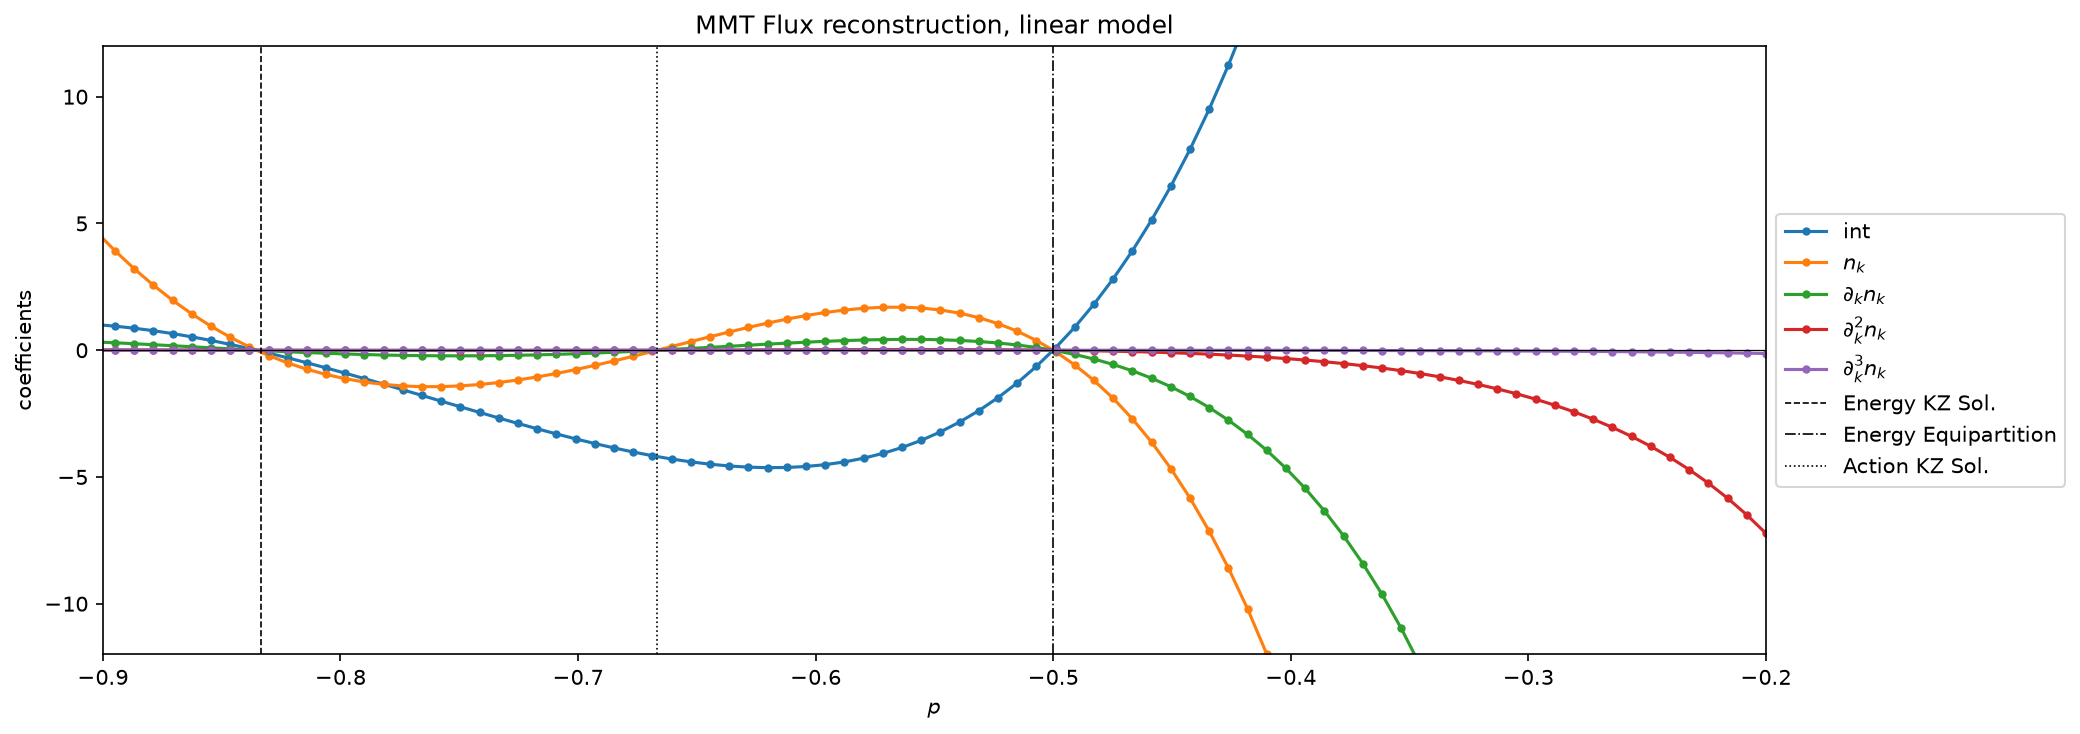
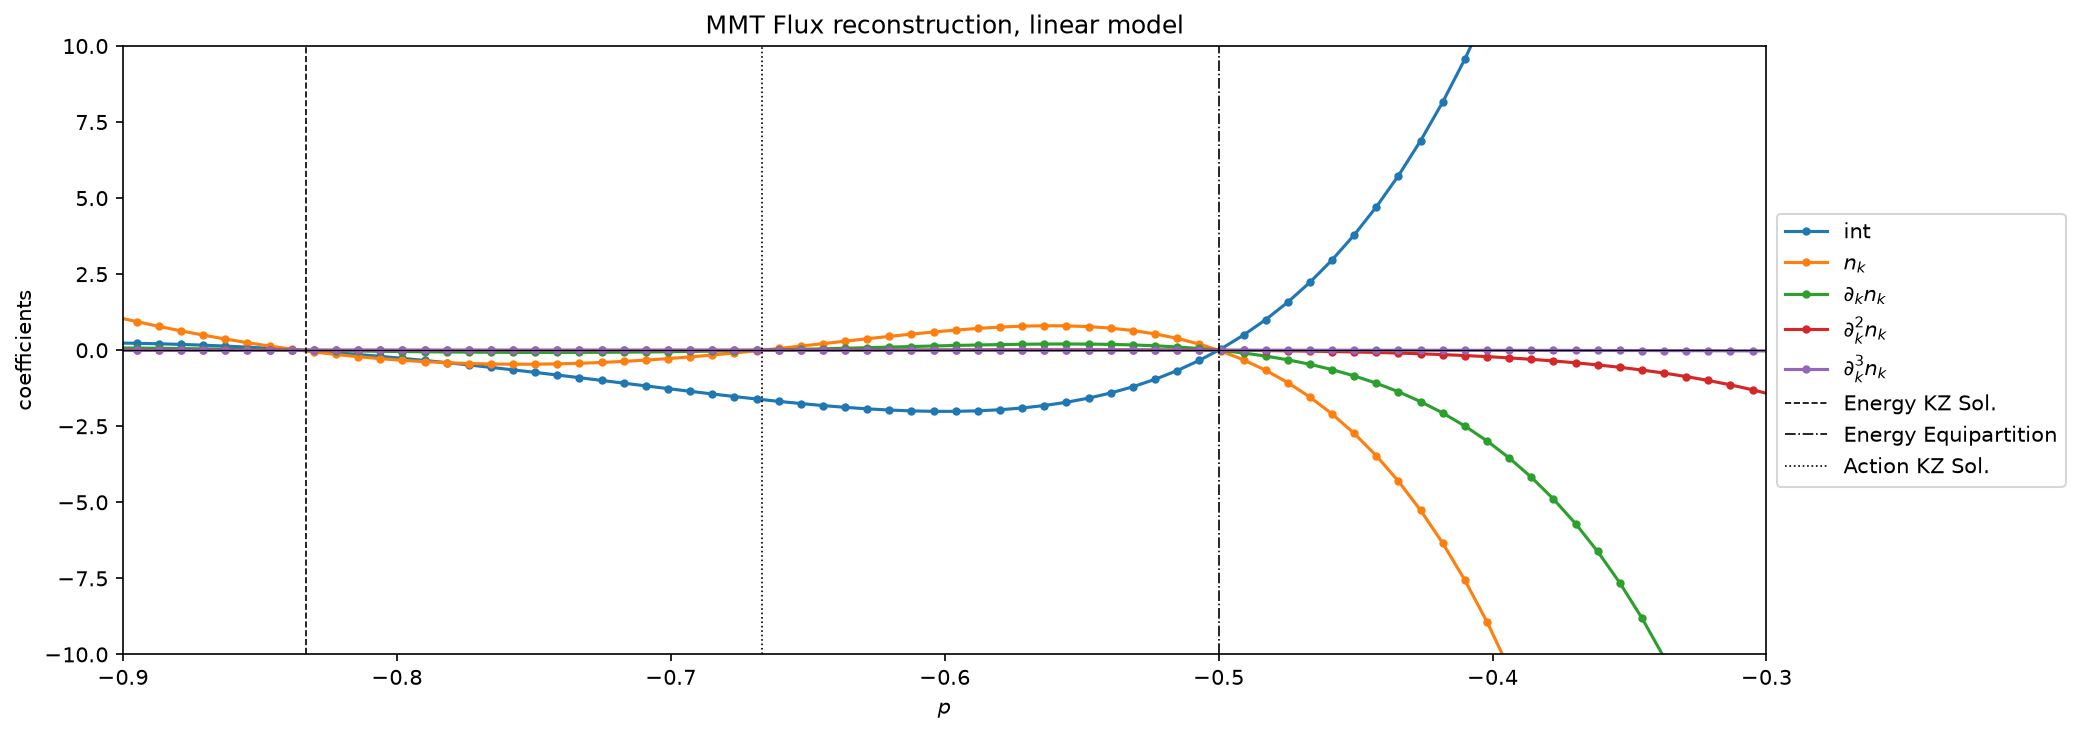
Refactor code structure for improved readability and maintainability

diff --git a/src/physics/linear_operator_library_mmt.py b/src/physics/linear_operator_library_mmt.py
@@ -42,8 +42,6 @@ def fit_operators_at_fixed_p_linear(p, A, k, k_min, k_max, beta=0.25,
     F_fit = reg_exact.predict(X)
     rel_error = np.linalg.norm(F_fit - F_true) / (np.linalg.norm(F_true) + 1e-20)
 
-    #coef_physical = reg_exact.coef_ / scaler.scale_
-
     return (reg_exact.coef_, r2_exact, rel_error, N_p)
 
 def plot_coefficients_vs_p_linear(ps, A, k, k_min, k_max, beta=0.25,
@@ -76,7 +74,7 @@ def plot_coefficients_vs_p_linear(ps, A, k, k_min, k_max, beta=0.25,
     plt.figure(figsize=(14, 5))
 
     for lab in labels :
-        plt.plot(ps, res["exact"][lab]*(N_p_list**2), "o-", markersize = 3, label = lab)
+        plt.plot(ps, res["exact"][lab], "o-", markersize = 3, label = lab)
 
     plt.axhline(0, color="black", linewidth=0.6)
     plt.xlabel(r"$p$")
@@ -85,8 +83,8 @@ def plot_coefficients_vs_p_linear(ps, A, k, k_min, k_max, beta=0.25,
     plt.axvline(-5/6, linestyle="--", linewidth=0.8, color="black", label="Energy KZ Sol.")
     plt.axvline(-1/2, linestyle="-.", linewidth=0.8, color="black", label="Energy Equipartition")
     plt.axvline(-2/3, linestyle=":", linewidth=0.8, color="black", label="Action KZ Sol.")
-    plt.xlim(-0.9, -0.2)
-    plt.ylim(-12, 12)
+    plt.xlim(-0.9, -0.3)
+    plt.ylim(-10, 10)
     plt.legend(loc = "center left", bbox_to_anchor=(1, 0.5))
 
     plt.tight_layout()
@@ -96,44 +94,51 @@ def plot_coefficients_vs_p_linear(ps, A, k, k_min, k_max, beta=0.25,
         plt.show()
     plt.close()
 
-"""
-def plot_coefficients_physical(ps, A, k, k_min, k_max, beta=0.25,
-                               N=300, IntN=200, max_order=3, save_path=None, show=True):
+
+def fit_flux_through_1(ps, A, max_order = 4, beta=0.25,
+                        N=300, IntN=200, save_path = None, show=True):
+
     ps = np.asarray(ps)
 
-    labels = ["int", r"$n_k$", r"$\partial_k n_k$", r"$\partial^2_k n_k$", r"$\partial^3_k n_k$"][:max_order + 1] 
-    res = { "exact": {lab: [] for lab in labels }}   
+    F_true = np.array([
+        flux_ab(power_law, (p, A), [0, 1], [1, np.inf], beta, "Action", N=N, IntN=IntN)[0]
+        for p in ps
+    ])
 
-    for p in ps:
-        (coef_e, r2_e, rel_e, coef_physical) = fit_operators_at_fixed_p_linear(
-            p, A, k, k_min, k_max, beta=beta, N=N, IntN=IntN, max_order=max_order, ridge_alpha = 1e-3
-        )
-        for lab, c in zip(labels, coef_physical):
-            res["exact"][lab].append(c)
+    def basis_row(p, L):
+        row, term = [1.0], 1.0
+        for ell in range(1, L + 1):
+            term *= (p - (ell - 1))
+            row.append(term)
+        return row
+
+    X = np.array([basis_row(p, max_order) for p in ps])
 
 
-    plt.figure(figsize=(14, 5))
-    
-    for lab in labels  :
-        plt.plot(ps, res["exact"][lab], "o-", markersize = 3, label = lab)
+    reg_exact = LinearRegression(fit_intercept=False).fit(X, F_true)
+    F_fit = reg_exact.predict(X)
+    rel_error = np.linalg.norm(F_fit - F_true) / (np.linalg.norm(F_true) + 1e-20)
 
-    plt.axhline(0, color="black", linewidth=0.6)
+    plt.figure(figsize=(14,6))
+    plt.title("MMT Flux reconstruction, linear model")
     plt.xlabel(r"$p$")
-    plt.ylabel(r"coefficients")
-    plt.title("MMT Flux reconstruction, linear model, physical coefficients")
+    plt.ylabel(r"Flux $\hat{F}(p)$")
+    plt.axhline(0, color="black", linewidth=0.6)
+    plt.plot(ps, F_true, "o-", markersize=3, label="True Flux")
+    plt.plot(ps, F_fit, "o-", markersize=3, label="Fitted Flux")
     plt.axvline(-5/6, linestyle="--", linewidth=0.8, color="black", label="Energy KZ Sol.")
     plt.axvline(-1/2, linestyle="-.", linewidth=0.8, color="black", label="Energy Equipartition")
     plt.axvline(-2/3, linestyle=":", linewidth=0.8, color="black", label="Action KZ Sol.")
-    plt.xlim(-0.95, 0.05)
-    plt.ylim(-12, 12)
-    plt.legend(loc = "center left", bbox_to_anchor=(1, 0.5))
-    
+    plt.xlim(-0.9, 0.05)
+    plt.ylim(-10, 10)
+    plt.legend()
     plt.tight_layout()
+
     if save_path:
         plt.savefig(save_path, dpi=150, bbox_inches="tight")
     if show:
         plt.show()
     plt.close()
 
-"""
+    return reg_exact.coef_, rel_error
 

diff --git a/main_mmt.py b/main_mmt.py
@@ -10,7 +10,7 @@ from src.training.train_deeponet import (
 from src.training.flux_validation_plots import plot_flux_vs_p_mmt
 from src.physics.operator_library_mmt import plot_coefficients_vs_p, fit_operators_at_fixed_p, plot_flux_reconstructed
 from src.utils import config
-from src.physics.linear_operator_library_mmt import fit_operators_at_fixed_p_linear, plot_coefficients_vs_p_linear#, plot_coefficients_physical
+from src.physics.linear_operator_library_mmt import fit_operators_at_fixed_p_linear, plot_coefficients_vs_p_linear, fit_flux_through_1
 
 N_SENSORS = 200
 
@@ -76,23 +76,25 @@ test_data = splits["test"]
 #                        save_path="outputs_mmt/reconstructed_flux_mmt.png", show=False)
 
 #------------------ Fit dei coefficienti per il modello DeepONet e per il solver MMT (linearizzato) -----------------------------#
-
+"""
 (coef_e_l, r2_e_l, rel_e_l, N_p_l) = fit_operators_at_fixed_p_linear(
     p = -2/3, A = 1, k = np.linspace(0.1, 1, 100), k_min= config.K_MIN,
     k_max = config.K_MAX, beta=0.25, N=300, IntN=200, max_order=4, ridge_alpha = 1e-3
 )
 
 print("Coefficienti (solver MMT): ", coef_e_l ,"| R^2: ", r2_e_l, "errore relativo: ", rel_e_l)
-#print("Coefficienti (modello fisico): ", coef_phys)
 
 plot_coefficients_vs_p_linear(
     ps = np.linspace(-1, -0.2, 100), A = 1, k = np.linspace(0.1, 1.0, 100), beta = 0.25, 
     k_min = config.K_MIN, k_max = config.K_MAX, N=300, IntN=200, max_order=4,
     save_path="outputs_mmt/coefficients_vs_p_mmt_linear", show=False 
 )
+"""
 
-#plot_coefficients_physical(
-#    ps = np.linspace(-0.9, 0, 50), A = 1, k = np.linspace(0.1, 1.0, 50), beta = 0.25, 
-#    k_min = config.K_MIN, k_max = config.K_MAX, N=300, IntN=200, max_order=4,
-#    save_path="outputs_mmt/coefficients_physical_vs_p_mmt_physical", show=False 
-#)
+(coef_e, rel_error) = fit_flux_through_1(
+    ps = np.linspace(-1, -0.2, 100), A = 1, max_order = 4, beta=0.25, N=300, IntN=200,
+    save_path = "outputs_mmt/flux_through_1_mmt_linear", show=False
+)
+print("Coefficienti (modello lineare MMT): ", coef_e, "errore relativo: ", rel_error)
+
+
